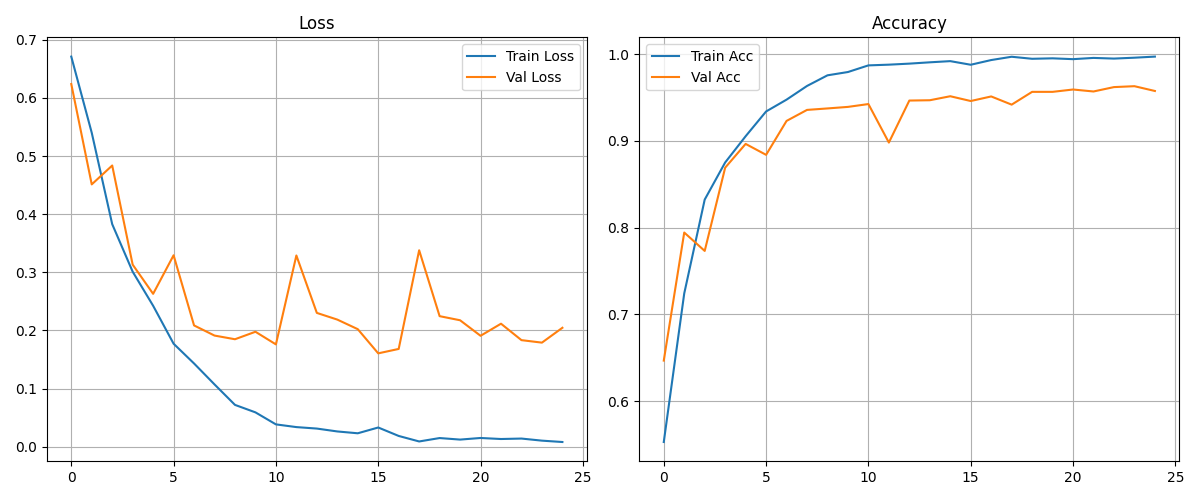
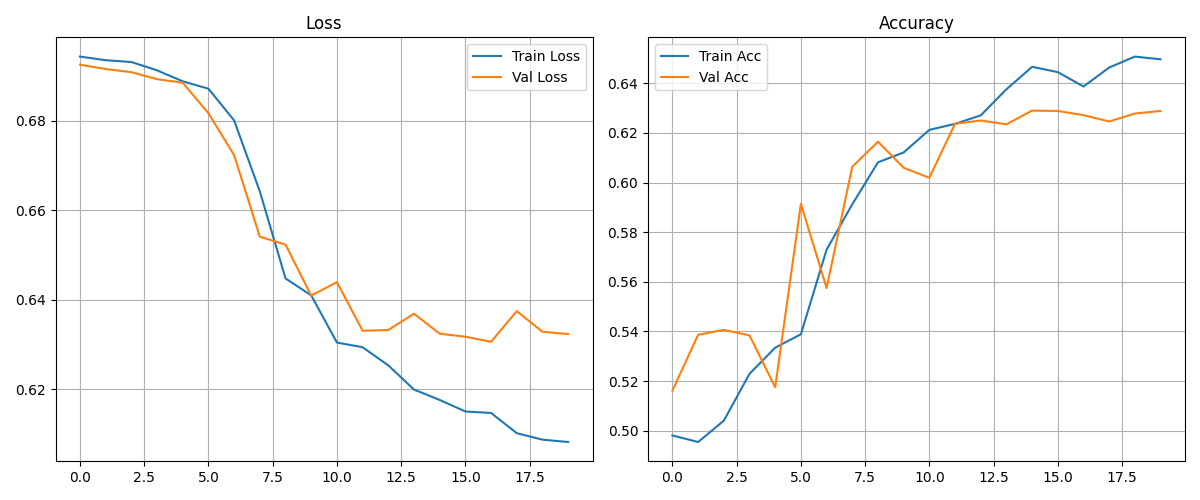
update model

diff --git a/scripts/main.py b/scripts/main.py
@@ -1,5 +1,3 @@
-
-
 import pandas as pd
 import torch
 from torch.utils.data import DataLoader
@@ -30,7 +28,6 @@ def train():
 
     k = cfg.kmer_size
     vocab = build_fixed_kmer_vocab(k)
-    print(vocab)
     print(f"Vocabulary size: {len(vocab)}")
     cfg.vocab_size = len(vocab)
     train_data = DNAKmerDataset(cfg.train_file, k, vocab)
@@ -43,16 +40,23 @@ def train():
     val_loader = DataLoader(val_data, batch_size=cfg.batch_size)
     test_loader = DataLoader(test_data, batch_size=cfg.batch_size)
 
-    '''model = DNAClassifier(seq_len=cfg.seq_len, 
+    effective_seq_len = cfg.seq_len - cfg.kmer_size + 1
+
+    model = DNAClassifier(seq_len=effective_seq_len,
                           vocab_size=len(vocab), 
                           d_model=cfg.d_model, 
                           n_heads=cfg.n_heads,
                           ffn_dim=cfg.ffn_dim, 
                           n_layers=cfg.n_layers, 
                           dropout=cfg.dropout).to(device)
-    print(f"Model: {model}")'''
+    print(f"Model: {model}")
 
-    model = DNAClassifierCNNLSTM(vocab_size=len(vocab), num_classes=2)
+    '''model = DNAClassifierCNNLSTM(vocab_size=len(vocab), 
+                                 num_classes=2, 
+                                 embed_dim=cfg.d_model, 
+                                 lstm_hidden=cfg.ffn_dim, 
+                                 lstm_layers=1
+                                )'''
     print(f"Model: {model}")
     model.to(device)
 
@@ -69,8 +73,8 @@ def train():
 
         for x, y in train_loader:
             x, y = x.to(device), y.to(device).float()
-            #logits, _ = model(x)
-            logits = model(x)
+            logits, _ = model(x)
+            #logits = model(x)
             loss = loss_fn(logits, y)
 
             optimizer.zero_grad()
@@ -92,8 +96,8 @@ def train():
         with torch.no_grad():
             for x, y in val_loader:
                 x, y = x.to(device), y.to(device).float()
-                #logits, _ = model(x)
-                logits = model(x)
+                logits, _ = model(x)
+                #logits = model(x)
                 loss = loss_fn(logits, y)
                 val_loss += loss.item()
                 pred = torch.sigmoid(logits)

diff --git a/scripts/cnn_lstm_model.py b/scripts/cnn_lstm_model.py
@@ -13,22 +13,22 @@ class CNNLSTMClassifier(nn.Module):
 
         # CNN to learn local motifs
         self.cnn = nn.Sequential(
-            nn.Conv1d(in_channels=embed_dim, out_channels=128, kernel_size=7, padding=3),
+            nn.Conv1d(in_channels=embed_dim, out_channels=embed_dim, kernel_size=7, padding=3),
             nn.ReLU(),
-            nn.MaxPool1d(kernel_size=2),  # 995 -> 497
+            nn.MaxPool1d(kernel_size=2),
 
-            nn.Conv1d(128, 256, kernel_size=5, padding=2),
+            nn.Conv1d(embed_dim, 2*embed_dim, kernel_size=5, padding=2),
             nn.ReLU(),
-            nn.MaxPool1d(kernel_size=2),  # 497 -> 248
+            nn.MaxPool1d(kernel_size=2),
 
-            nn.Conv1d(256, 128, kernel_size=3, padding=1),
+            nn.Conv1d(2*embed_dim, embed_dim, kernel_size=3, padding=1),
             nn.ReLU(),
-            nn.MaxPool1d(kernel_size=2),  # 248 -> 124
+            nn.MaxPool1d(kernel_size=2),
         )
 
         # LSTM to learn long-range dependencies
         self.lstm = nn.LSTM(
-            input_size=128,  # Must match CNN output channels
+            input_size=lstm_hidden,  # Must match CNN output channels
             hidden_size=lstm_hidden,
             num_layers=lstm_layers,
             batch_first=True,
@@ -37,10 +37,10 @@ class CNNLSTMClassifier(nn.Module):
 
         # Classification head
         self.classifier = nn.Sequential(
-            nn.Linear(lstm_hidden * 2, 64),
+            nn.Linear(lstm_hidden * 2, lstm_hidden // 2),
             nn.ReLU(),
             nn.Dropout(0.2),
-            nn.Linear(64, 1)
+            nn.Linear(lstm_hidden // 2, 1)
         )
 
     def forward(self, x):

diff --git a/scripts/dataset_kmer.py b/scripts/dataset_kmer.py
@@ -36,7 +36,10 @@ class DNAKmerDataset(Dataset):
     def __init__(self, path_sequences: Path, k: int, vocab: Dict[str, int]):
         df = pd.read_csv(path_sequences)
         self.sequences = df['query_subseq'].tolist()
+        print(len(self.sequences[0]))
         self.encoded_sequences = [encode_sequence(seq, k, vocab) for seq in self.sequences]
+        print(len(self.encoded_sequences[0]))
+        print("-----------")
         self.labels = torch.tensor(df['labels'].astype(int).tolist(), dtype=torch.long)
 
     def __len__(self):

diff --git a/scripts/distributed_load_and_preprocess.py b/scripts/distributed_load_and_preprocess.py
@@ -142,7 +142,7 @@ def read_BAM_files_pyspark():
 
     # Distribute the file list
     rdd = sc.parallelize(bam_files, numSlices=num_cores)
-    print(f"Number of BAM files to process: {len()}")
+    print(f"Number of BAM files to process: {len(bam_files)}")
     #pos_neg_reads = rdd.map(process_bam).collect()
     pos_neg_reads = rdd.map(process_bam).filter(lambda x: x is not None).collect()
 
